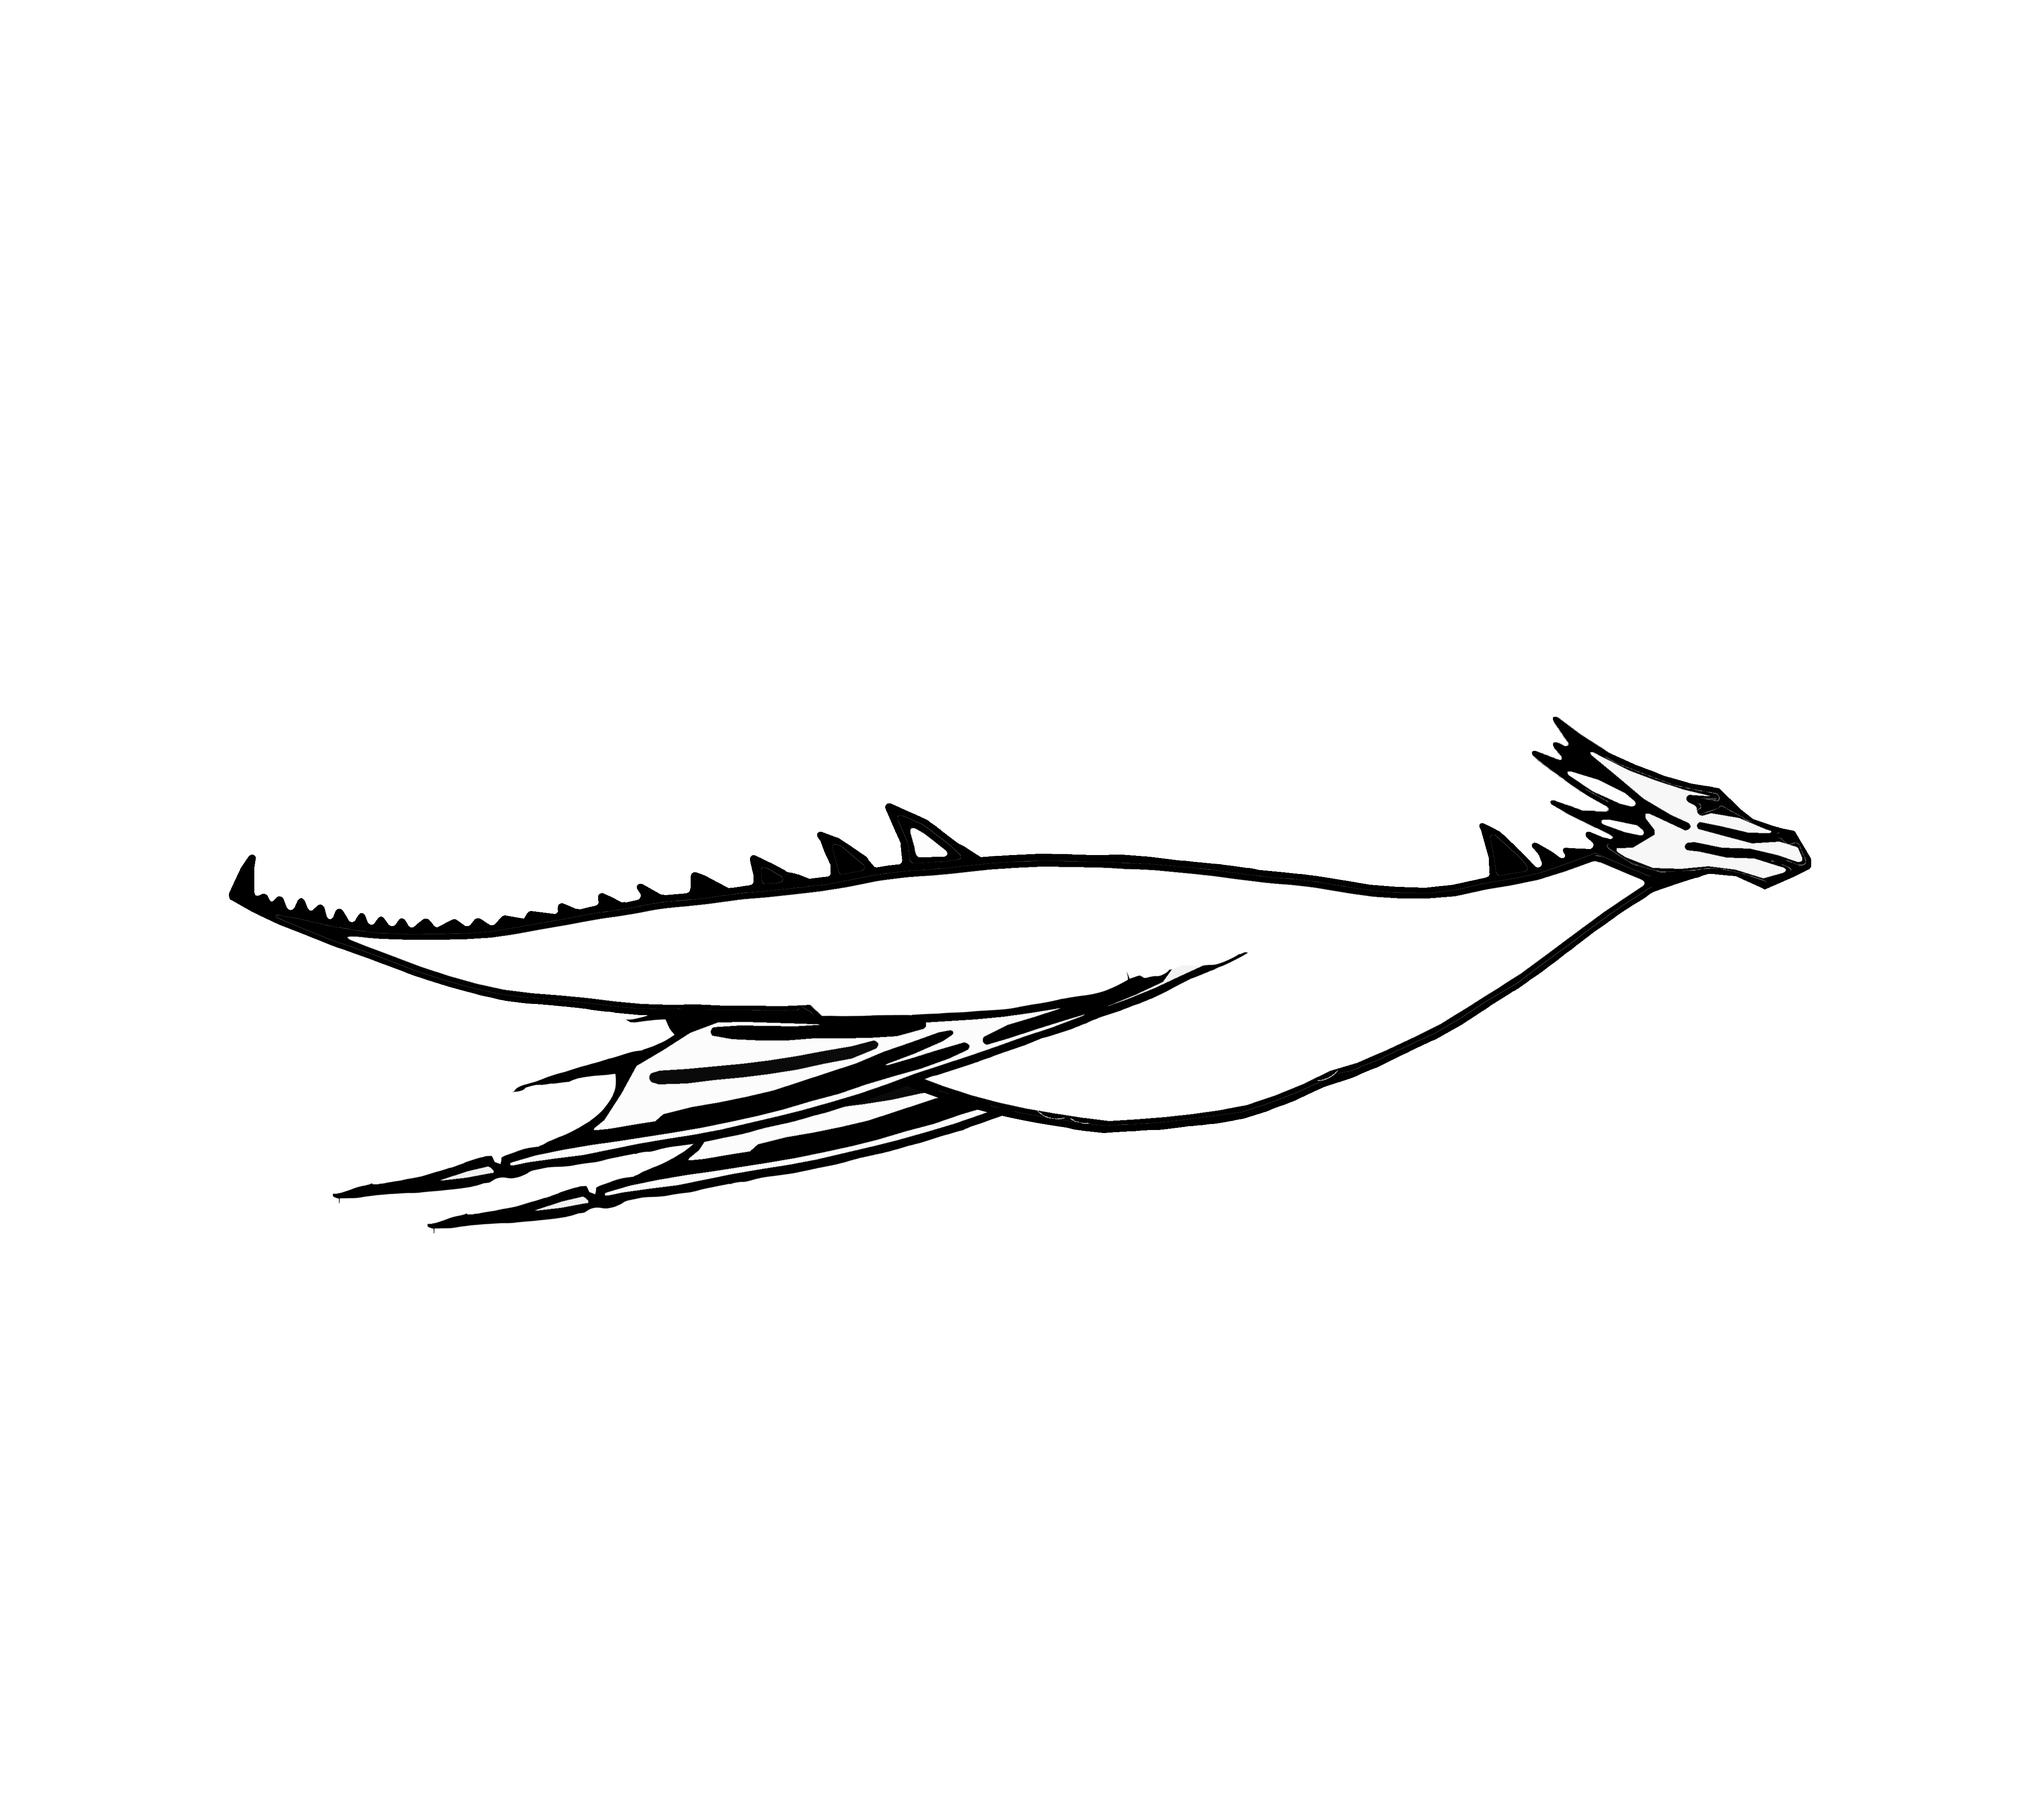
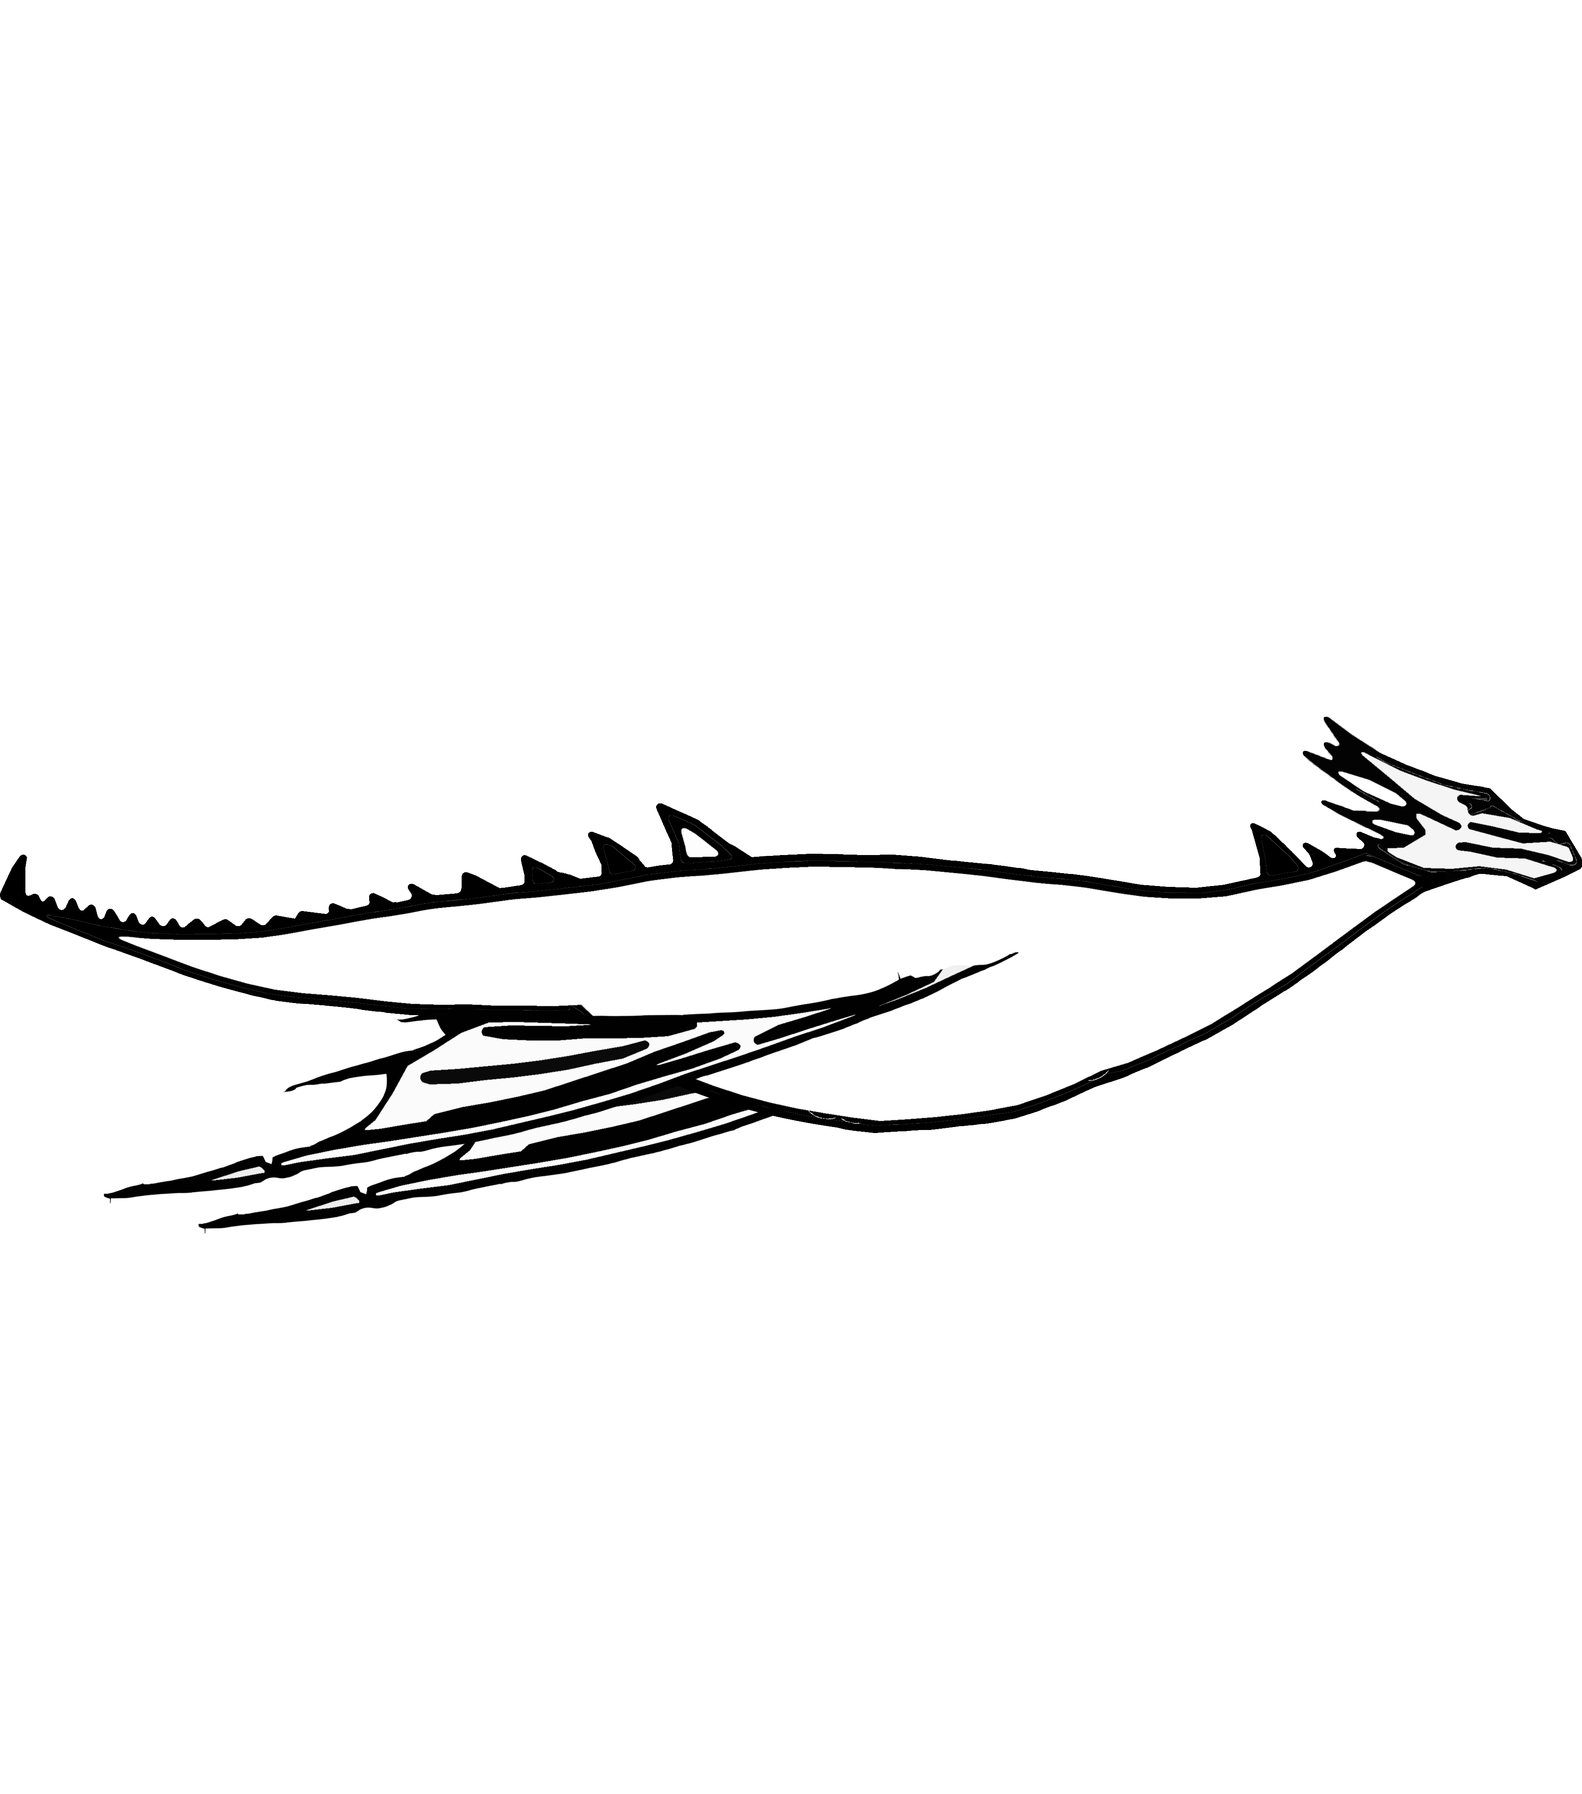
Switched dragon animation to spriting strategy, removed dragon timeline for mobile

Changed region(s): [[0.0, 0.4366, 0.6201, 0.686], [0.5581, 0.4054, 1.0, 0.6548]]

diff --git a/dist/main.css b/dist/main.css
@@ -177,52 +177,46 @@ a {
   height: 300px;
   position: relative; }
 
-@-webkit-keyframes dragon-flying {
+@-webkit-keyframes dragon-bobbing {
   0% {
-    background-image: url("../dragon-up.png");
     margin-top: -9px; }
   10% {
-    background-image: url("../dragon-up.png");
     margin-top: -10px; }
   36% {
-    background-image: url("../dragon-mid-up.png");
     margin-top: -13px; }
   63% {
-    background-image: url("../dragon-mid-down.png");
     margin-top: -17px; }
   90% {
-    background-image: url("../dragon-down.png");
     margin-top: -20px; }
   100% {
-    background-image: url("../dragon-down.png");
     margin-top: -21px; } }
+
+@keyframes dragon-bobbing {
+  0% {
+    margin-top: -9px; }
+  10% {
+    margin-top: -10px; }
+  36% {
+    margin-top: -13px; }
+  63% {
+    margin-top: -17px; }
+  90% {
+    margin-top: -20px; }
+  100% {
+    margin-top: -21px; } }
+
+@-webkit-keyframes dragon-flying {
+  to {
+    background-position: -1064px; } }
 
 @keyframes dragon-flying {
-  0% {
-    background-image: url("../dragon-up.png");
-    margin-top: -9px; }
-  10% {
-    background-image: url("../dragon-up.png");
-    margin-top: -10px; }
-  36% {
-    background-image: url("../dragon-mid-up.png");
-    margin-top: -13px; }
-  63% {
-    background-image: url("../dragon-mid-down.png");
-    margin-top: -17px; }
-  90% {
-    background-image: url("../dragon-down.png");
-    margin-top: -20px; }
-  100% {
-    background-image: url("../dragon-down.png");
-    margin-top: -21px; } }
+  to {
+    background-position: -1064px; } }
 
 .dragon {
-  -webkit-animation: dragon-flying 0.3s ease-in-out infinite alternate forwards;
-          animation: dragon-flying 0.3s ease-in-out infinite alternate forwards;
-  background-size: auto 300px;
-  background-position: center;
-  background-repeat: no-repeat;
+  -webkit-animation: dragon-flying 0.3s steps(4) infinite alternate;
+          animation: dragon-flying 0.3s steps(4) infinite alternate;
+  background: url("../dragon-sprite.png") no-repeat left center/auto 294px;
   width: 100%;
   height: 100%;
   -webkit-transform: rotateY(0deg);
@@ -230,6 +224,8 @@ a {
 
 .timeline__marker {
   position: absolute;
+  -webkit-animation: dragon-bobbing 0.3s ease-in-out infinite alternate forwards;
+          animation: dragon-bobbing 0.3s ease-in-out infinite alternate forwards;
   z-index: 2;
   left: 0;
   -webkit-transition: 1.5s;
@@ -418,6 +414,10 @@ a {
     font-size: 34px; }
   .header-nav {
     font-size: 16px; }
+  .timeline__container {
+    display: none; }
+  .timeline__step-descriptions {
+    display: none; }
   .section {
     padding: 5% 5%; }
   .section--contact {
@@ -425,6 +425,8 @@ a {
     -webkit-box-direction: normal;
         -ms-flex-direction: column;
             flex-direction: column; }
+  .section__title--contact {
+    margin-bottom: 0; }
   .experience {
     -webkit-box-orient: vertical;
     -webkit-box-direction: normal;
@@ -446,8 +448,8 @@ a {
 
 /* Small devices (tablets, 768px and up) */
 @media (min-width: 768px) and (max-width: 991px) {
-  .header {
-    background: url("../watercolor-3.jpg") no-repeat center/auto 100%; } }
+  .background {
+    background: url("../watercolor-3.jpg") no-repeat center/auto 90%; } }
 
 /* Medium devices (desktops, 992px and up) */
 /* Large devices (large desktops, 1200px and up) */

diff --git a/css/style.scss b/css/style.scss
@@ -128,43 +128,24 @@ a {
 	position: relative;
 }
 
+@keyframes dragon-bobbing {
+	0% { margin-top: -9px; }
+  10% { margin-top: -10px; }
+  36% { margin-top: -13px; }
+  63% { margin-top: -17px; }
+  90% { margin-top: -20px; }
+  100% { margin-top: -21px; }
+}
+
 @keyframes dragon-flying {
-  0% {
-		background-image: url("../dragon-up.png");
-		margin-top: -9px;
-  }
-
-  10% {
-		background-image: url("../dragon-up.png");
-		margin-top: -10px;
-  }
-
-  36% {
-		background-image: url("../dragon-mid-up.png");
-		margin-top: -13px;
-  }
-
-  63% {
-		background-image: url("../dragon-mid-down.png");
-		margin-top: -17px;
-  }
-
-  90% {
-		background-image: url("../dragon-down.png");
- 		margin-top: -20px;
-  }
-
-  100% {
-		background-image: url("../dragon-down.png");
-  	margin-top: -21px;
+  to {
+  	background-position: -1064px;
   }
 }
 
 .dragon {
-  animation: dragon-flying 0.3s ease-in-out infinite alternate forwards;
-  background-size: auto 300px;
-  background-position: center;
-  background-repeat: no-repeat;
+  animation: dragon-flying 0.3s steps(4) infinite alternate;
+	background: url("../dragon-sprite.png") no-repeat left center/ auto 294px;
 	width: 100%;
 	height: 100%;
 	transform: rotateY(0deg);
@@ -172,6 +153,7 @@ a {
 
 .timeline__marker {
 	position: absolute;
+  animation: dragon-bobbing 0.3s ease-in-out infinite alternate forwards;
 	z-index: 2;
 	left: 0;
 	transition: 1.5s;
@@ -398,12 +380,24 @@ a {
 		font-size: 16px;
 	}
 
+	.timeline__container {
+		display: none;
+	}
+
+	.timeline__step-descriptions {
+		display: none;
+	}
+
 	.section {
 		padding: 5% 5%;
 	}
 
 	.section--contact {
 		flex-direction: column;
+	}
+
+	.section__title--contact {
+		margin-bottom: 0;
 	}
 
 	.experience {
@@ -435,8 +429,8 @@ a {
 
 /* Small devices (tablets, 768px and up) */
 @media (min-width: 768px) and (max-width: 991px) {
-	.header {
-		background: url("../watercolor-3.jpg") no-repeat center/auto 100%;
+	.background {
+		background: url("../watercolor-3.jpg") no-repeat center/auto 90%;
 	}
 }
 

diff --git a/index.html b/index.html
@@ -11,11 +11,6 @@
 	</head>
 	<body>
 	<div class="background"></div>
-	<img src="dragon-up.png" style="display:none;" alt="" />
-	<img src="dragon-mid-up.png" style="display:none;" alt="" />
-	<img src="dragon-mid-down.png" style="display:none;" alt="" />
-	<img src="dragon-down.png" style="display:none;" alt="" />
-
 	<header class="header">
 		<div class="header__banner vertically-centered display-flex align-items-center">
 			<h1 class="header__name flex-shrink-0" aria-label="Erin Singer's Portfolio"></h1>
@@ -189,7 +184,7 @@
 
 	<a name="contact"></a>
 	<div class="section section--contact display-flex">
-		<h2 class="section__title flex-grow-1 flex-srink-0">
+		<h2 class="section__title section__title--contact flex-grow-1 flex-shrink-0">
 			Contact
 		</h2>
 	  <div class="contact flex-grow-1">

diff --git a/css/utilities.scss b/css/utilities.scss
@@ -65,3 +65,4 @@
 	visibility: hidden;
 }
 
+
